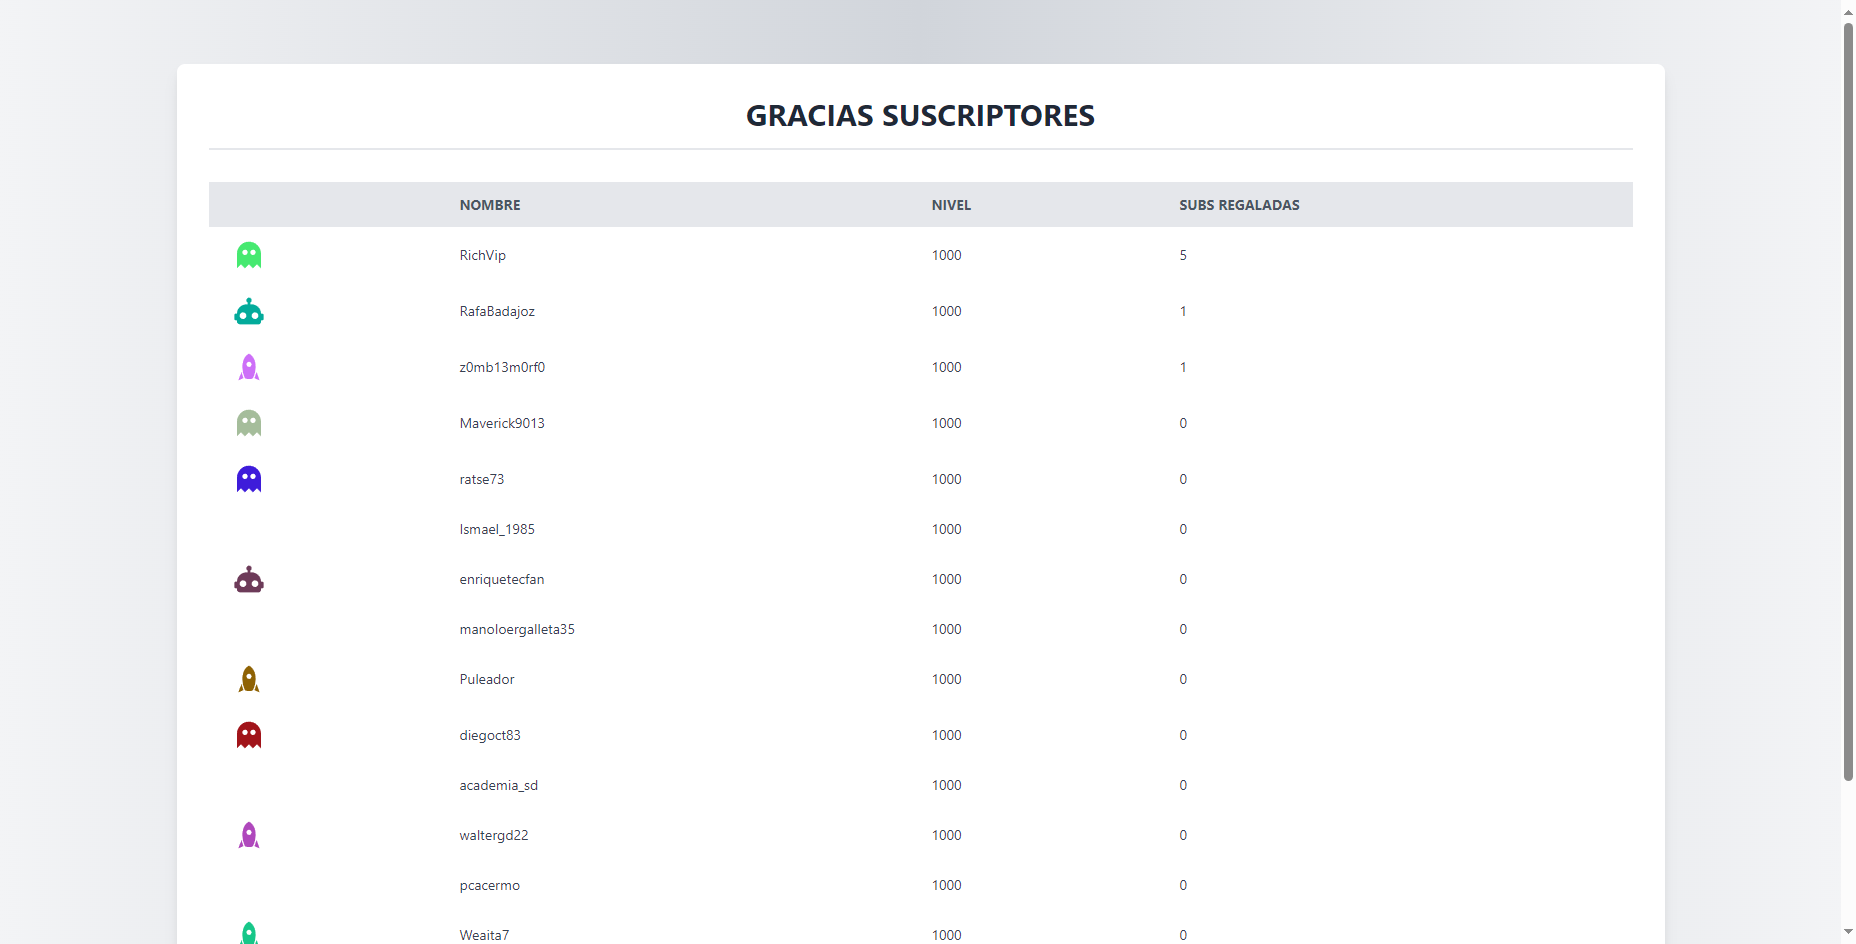
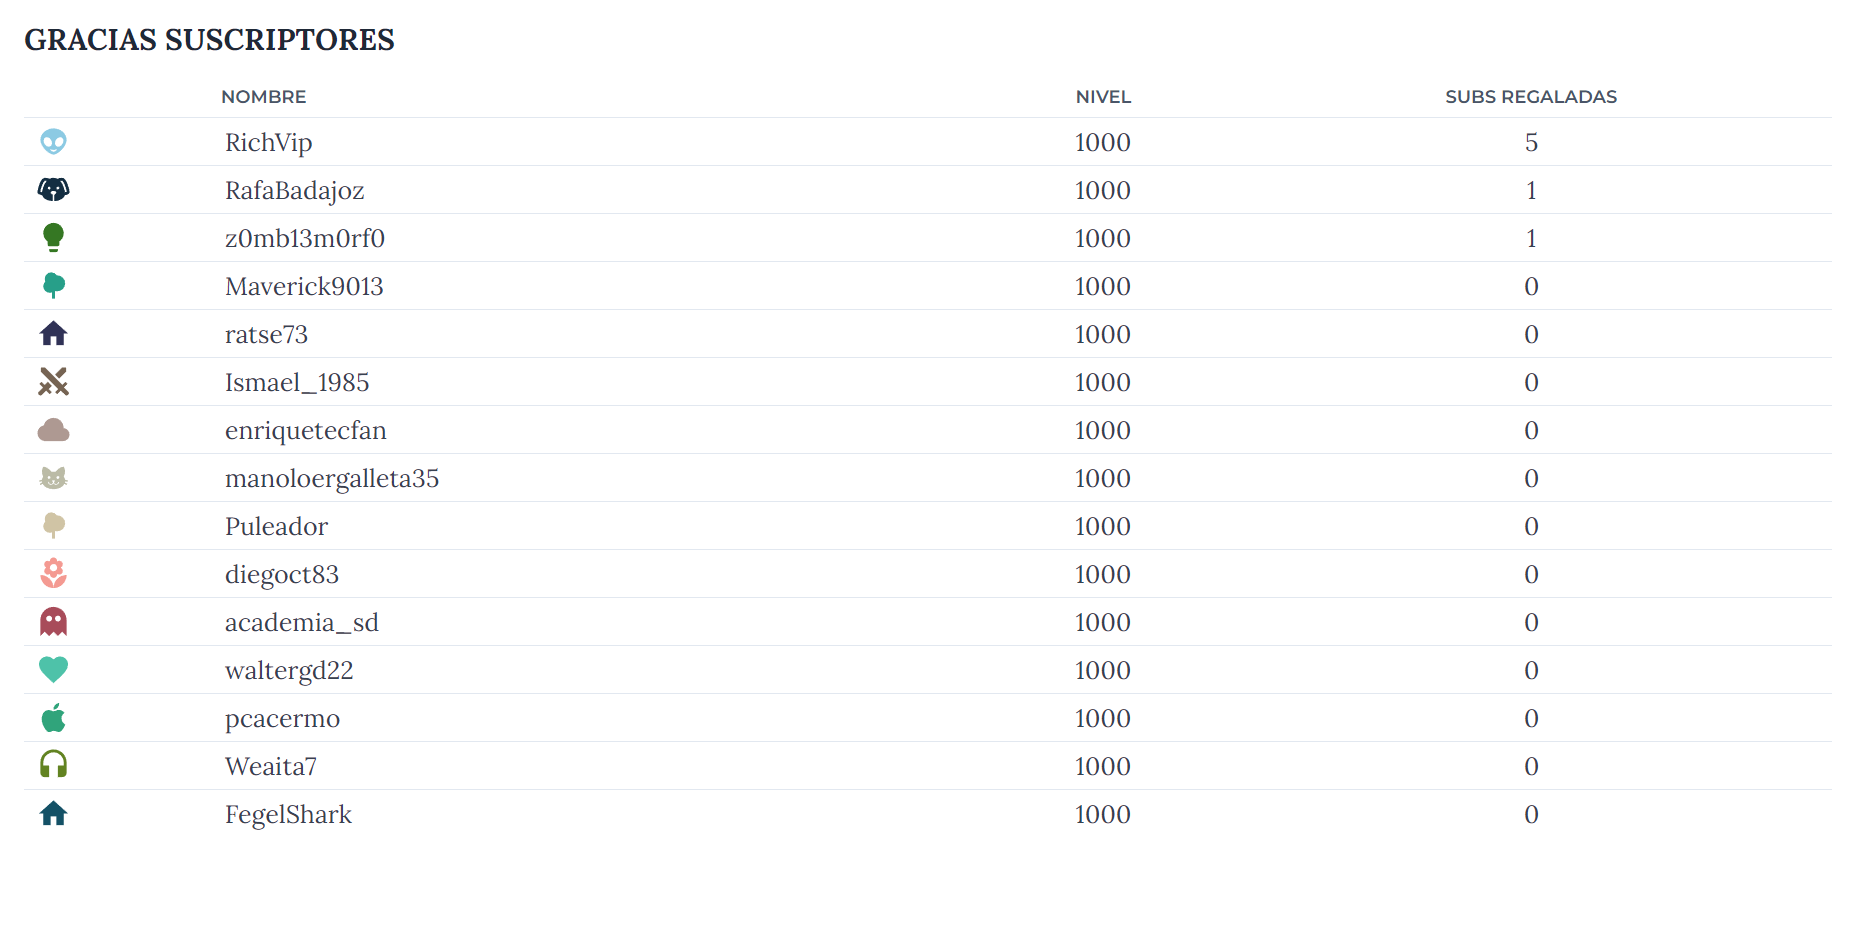
todo

diff --git a/index_con_placeholder.html b/index_con_placeholder.html
@@ -6,39 +6,63 @@
     <title>Lista de Suscriptores</title>
     <!-- Incluir Tailwind CSS desde el CDN -->
     <link href="https://cdn.jsdelivr.net/npm/tailwindcss@2.2.19/dist/tailwind.min.css" rel="stylesheet">
+    <!-- Incluir Google Fonts -->
+    <link href="https://fonts.googleapis.com/css2?family=Lora:wght@400;700&family=Montserrat:wght@300;600&display=swap" rel="stylesheet">
     <!-- Incluir Iconify -->
     <script src="https://code.iconify.design/2/2.1.2/iconify.min.js"></script>
+    <style>
+        /* Custom styles to make the table look less like a traditional table */
+        th, td {
+            padding: 12px 16px;
+        }
+        th {
+            font-family: 'Montserrat', sans-serif;
+            font-weight: 600;
+            text-transform: uppercase;
+            color: #4a5568;
+            border-bottom: 2px solid #e2e8f0;
+            font-size: 36px;
+        }
+        td {
+            font-family: 'Lora', serif;
+            font-weight: 400;
+            border-bottom: 1px solid #e2e8f0;
+            font-size: 50px;
+        }
+        tr:last-child td {
+            border-bottom: none; /* Remove border for the last row */
+        }
+    </style>
 </head>
-<body class="bg-gradient-to-r from-gray-100 via-gray-300 to-gray-100 font-sans leading-normal tracking-normal">
-    <div class="container mx-auto mt-10 p-6">
-        <div class="bg-white p-8 rounded-lg shadow-lg">
-            <h1 class="text-3xl font-bold text-center text-gray-800 mb-8 border-b-2 pb-4">GRACIAS SUSCRIPTORES</h1>
-            <table class="min-w-full bg-white">
-                <thead class="bg-gray-200 text-gray-600 uppercase text-sm leading-normal">
+<body class="bg-white font-sans leading-normal tracking-normal">
+    <div class="w-full p-4">
+        <div class="bg-white p-8">
+            <h1 class="text-6xl font-bold text-left text-gray-800 mb-8 pb-4" style="font-family: 'Lora', serif;">GRACIAS SUSCRIPTORES</h1>
+            <table class="w-full bg-white">
+                <thead>
                     <tr>
-                        <th></th>
-                        <th class="py-3 px-6 text-left">Nombre</th>
-                        <th class="py-3 px-6 text-left">Nivel</th>
-                        <th class="py-3 px-6 text-left">Subs Regaladas</th>
+                        <th class="text-center"></th>
+                        <th class="text-left">Nombre</th>
+                        <th class="text-center">Nivel</th>
+                        <th class="text-center">Subs Regaladas</th>
                     </tr>
                 </thead>
-                <tbody id="nombres-lista" class="text-gray-700 text-sm">
-                    <tr><td class='py-3 px-6 text-left'><span class="iconify" data-icon="mdi:ghost" style="color: #46e970; font-size: 32px;"></span></td><td class='py-3 px-6 text-left'>RichVip</td><td class='py-3 px-6 text-left'>1000</td><td class='py-3 px-6 text-left'>5</td></tr>
-<tr><td class='py-3 px-6 text-left'><span class="iconify" data-icon="mdi:robot" style="color: #03ab9b; font-size: 32px;"></span></td><td class='py-3 px-6 text-left'>RafaBadajoz</td><td class='py-3 px-6 text-left'>1000</td><td class='py-3 px-6 text-left'>1</td></tr>
-<tr><td class='py-3 px-6 text-left'><span class="iconify" data-icon="mdi:rocket" style="color: #cd6ff8; font-size: 32px;"></span></td><td class='py-3 px-6 text-left'>z0mb13m0rf0</td><td class='py-3 px-6 text-left'>1000</td><td class='py-3 px-6 text-left'>1</td></tr>
-<tr><td class='py-3 px-6 text-left'><span class="iconify" data-icon="mdi:ghost" style="color: #a5bd9b; font-size: 32px;"></span></td><td class='py-3 px-6 text-left'>Maverick9013</td><td class='py-3 px-6 text-left'>1000</td><td class='py-3 px-6 text-left'>0</td></tr>
-<tr><td class='py-3 px-6 text-left'><span class="iconify" data-icon="mdi:ghost" style="color: #3e1cda; font-size: 32px;"></span></td><td class='py-3 px-6 text-left'>ratse73</td><td class='py-3 px-6 text-left'>1000</td><td class='py-3 px-6 text-left'>0</td></tr>
-<tr><td class='py-3 px-6 text-left'><span class="iconify" data-icon="mdi:space-invader" style="color: #c1187c; font-size: 32px;"></span></td><td class='py-3 px-6 text-left'>Ismael_1985</td><td class='py-3 px-6 text-left'>1000</td><td class='py-3 px-6 text-left'>0</td></tr>
-<tr><td class='py-3 px-6 text-left'><span class="iconify" data-icon="mdi:robot" style="color: #6d3b59; font-size: 32px;"></span></td><td class='py-3 px-6 text-left'>enriquetecfan</td><td class='py-3 px-6 text-left'>1000</td><td class='py-3 px-6 text-left'>0</td></tr>
-<tr><td class='py-3 px-6 text-left'><span class="iconify" data-icon="mdi:space-invader" style="color: #28db12; font-size: 32px;"></span></td><td class='py-3 px-6 text-left'>manoloergalleta35</td><td class='py-3 px-6 text-left'>1000</td><td class='py-3 px-6 text-left'>0</td></tr>
-<tr><td class='py-3 px-6 text-left'><span class="iconify" data-icon="mdi:rocket" style="color: #8f6204; font-size: 32px;"></span></td><td class='py-3 px-6 text-left'>Puleador</td><td class='py-3 px-6 text-left'>1000</td><td class='py-3 px-6 text-left'>0</td></tr>
-<tr><td class='py-3 px-6 text-left'><span class="iconify" data-icon="mdi:ghost" style="color: #a1141a; font-size: 32px;"></span></td><td class='py-3 px-6 text-left'>diegoct83</td><td class='py-3 px-6 text-left'>1000</td><td class='py-3 px-6 text-left'>0</td></tr>
-<tr><td class='py-3 px-6 text-left'><span class="iconify" data-icon="mdi:space-invader" style="color: #18d2a9; font-size: 32px;"></span></td><td class='py-3 px-6 text-left'>academia_sd</td><td class='py-3 px-6 text-left'>1000</td><td class='py-3 px-6 text-left'>0</td></tr>
-<tr><td class='py-3 px-6 text-left'><span class="iconify" data-icon="mdi:rocket" style="color: #af48bc; font-size: 32px;"></span></td><td class='py-3 px-6 text-left'>waltergd22</td><td class='py-3 px-6 text-left'>1000</td><td class='py-3 px-6 text-left'>0</td></tr>
-<tr><td class='py-3 px-6 text-left'><span class="iconify" data-icon="mdi:space-invader" style="color: #acdb0f; font-size: 32px;"></span></td><td class='py-3 px-6 text-left'>pcacermo</td><td class='py-3 px-6 text-left'>1000</td><td class='py-3 px-6 text-left'>0</td></tr>
-<tr><td class='py-3 px-6 text-left'><span class="iconify" data-icon="mdi:rocket" style="color: #17c789; font-size: 32px;"></span></td><td class='py-3 px-6 text-left'>Weaita7</td><td class='py-3 px-6 text-left'>1000</td><td class='py-3 px-6 text-left'>0</td></tr>
-<tr><td class='py-3 px-6 text-left'><span class="iconify" data-icon="mdi:rocket" style="color: #085c87; font-size: 32px;"></span></td><td class='py-3 px-6 text-left'>FegelShark</td><td class='py-3 px-6 text-left'>1000</td><td class='py-3 px-6 text-left'>0</td></tr>
-<tr><td class='py-3 px-6 text-left'><span class="iconify" data-icon="mdi:space-invader" style="color: #fba2f2; font-size: 32px;"></span></td><td class='py-3 px-6 text-left'>patriciofernandezia</td><td class='py-3 px-6 text-left'>3000</td><td class='py-3 px-6 text-left'>0</td></tr>
+                <tbody id="nombres-lista" class="text-gray-700 text-lg">
+                    <tr><td class='py-3 px-6 text-center'><span class="iconify" data-icon="mdi:alien" style="color: #8ccae3; font-size: 70px;"></span></td><td class='py-3 px-6 text-left'>RichVip</td><td class='py-3 px-6 text-center'>1000</td><td class='py-3 px-6 text-center'>5</td></tr>
+<tr><td class='py-3 px-6 text-center'><span class="iconify" data-icon="mdi:dog" style="color: #142e42; font-size: 70px;"></span></td><td class='py-3 px-6 text-left'>RafaBadajoz</td><td class='py-3 px-6 text-center'>1000</td><td class='py-3 px-6 text-center'>1</td></tr>
+<tr><td class='py-3 px-6 text-center'><span class="iconify" data-icon="mdi:lightbulb" style="color: #357723; font-size: 70px;"></span></td><td class='py-3 px-6 text-left'>z0mb13m0rf0</td><td class='py-3 px-6 text-center'>1000</td><td class='py-3 px-6 text-center'>1</td></tr>
+<tr><td class='py-3 px-6 text-center'><span class="iconify" data-icon="mdi:tree" style="color: #279f89; font-size: 70px;"></span></td><td class='py-3 px-6 text-left'>Maverick9013</td><td class='py-3 px-6 text-center'>1000</td><td class='py-3 px-6 text-center'>0</td></tr>
+<tr><td class='py-3 px-6 text-center'><span class="iconify" data-icon="mdi:home" style="color: #303256; font-size: 70px;"></span></td><td class='py-3 px-6 text-left'>ratse73</td><td class='py-3 px-6 text-center'>1000</td><td class='py-3 px-6 text-center'>0</td></tr>
+<tr><td class='py-3 px-6 text-center'><span class="iconify" data-icon="mdi:sword-cross" style="color: #766453; font-size: 70px;"></span></td><td class='py-3 px-6 text-left'>Ismael_1985</td><td class='py-3 px-6 text-center'>1000</td><td class='py-3 px-6 text-center'>0</td></tr>
+<tr><td class='py-3 px-6 text-center'><span class="iconify" data-icon="mdi:cloud" style="color: #ae9992; font-size: 70px;"></span></td><td class='py-3 px-6 text-left'>enriquetecfan</td><td class='py-3 px-6 text-center'>1000</td><td class='py-3 px-6 text-center'>0</td></tr>
+<tr><td class='py-3 px-6 text-center'><span class="iconify" data-icon="mdi:cat" style="color: #bbbba6; font-size: 70px;"></span></td><td class='py-3 px-6 text-left'>manoloergalleta35</td><td class='py-3 px-6 text-center'>1000</td><td class='py-3 px-6 text-center'>0</td></tr>
+<tr><td class='py-3 px-6 text-center'><span class="iconify" data-icon="mdi:tree" style="color: #d0c4a5; font-size: 70px;"></span></td><td class='py-3 px-6 text-left'>Puleador</td><td class='py-3 px-6 text-center'>1000</td><td class='py-3 px-6 text-center'>0</td></tr>
+<tr><td class='py-3 px-6 text-center'><span class="iconify" data-icon="mdi:flower" style="color: #f49a92; font-size: 70px;"></span></td><td class='py-3 px-6 text-left'>diegoct83</td><td class='py-3 px-6 text-center'>1000</td><td class='py-3 px-6 text-center'>0</td></tr>
+<tr><td class='py-3 px-6 text-center'><span class="iconify" data-icon="mdi:ghost" style="color: #a84c5a; font-size: 70px;"></span></td><td class='py-3 px-6 text-left'>academia_sd</td><td class='py-3 px-6 text-center'>1000</td><td class='py-3 px-6 text-center'>0</td></tr>
+<tr><td class='py-3 px-6 text-center'><span class="iconify" data-icon="mdi:heart" style="color: #4ec2a9; font-size: 70px;"></span></td><td class='py-3 px-6 text-left'>waltergd22</td><td class='py-3 px-6 text-center'>1000</td><td class='py-3 px-6 text-center'>0</td></tr>
+<tr><td class='py-3 px-6 text-center'><span class="iconify" data-icon="mdi:apple" style="color: #30a47b; font-size: 70px;"></span></td><td class='py-3 px-6 text-left'>pcacermo</td><td class='py-3 px-6 text-center'>1000</td><td class='py-3 px-6 text-center'>0</td></tr>
+<tr><td class='py-3 px-6 text-center'><span class="iconify" data-icon="mdi:headphones" style="color: #628321; font-size: 70px;"></span></td><td class='py-3 px-6 text-left'>Weaita7</td><td class='py-3 px-6 text-center'>1000</td><td class='py-3 px-6 text-center'>0</td></tr>
+<tr><td class='py-3 px-6 text-center'><span class="iconify" data-icon="mdi:home" style="color: #145166; font-size: 70px;"></span></td><td class='py-3 px-6 text-left'>FegelShark</td><td class='py-3 px-6 text-center'>1000</td><td class='py-3 px-6 text-center'>0</td></tr>
                 </tbody>
             </table>
         </div>

diff --git a/template.html b/template.html
@@ -6,23 +6,48 @@
     <title>Lista de Suscriptores</title>
     <!-- Incluir Tailwind CSS desde el CDN -->
     <link href="https://cdn.jsdelivr.net/npm/tailwindcss@2.2.19/dist/tailwind.min.css" rel="stylesheet">
+    <!-- Incluir Google Fonts -->
+    <link href="https://fonts.googleapis.com/css2?family=Lora:wght@400;700&family=Montserrat:wght@300;600&display=swap" rel="stylesheet">
     <!-- Incluir Iconify -->
     <script src="https://code.iconify.design/2/2.1.2/iconify.min.js"></script>
+    <style>
+        /* Custom styles to make the table look less like a traditional table */
+        th, td {
+            padding: 12px 16px;
+        }
+        th {
+            font-family: 'Montserrat', sans-serif;
+            font-weight: 600;
+            text-transform: uppercase;
+            color: #4a5568;
+            border-bottom: 2px solid #e2e8f0;
+            font-size: 36px;
+        }
+        td {
+            font-family: 'Lora', serif;
+            font-weight: 400;
+            border-bottom: 1px solid #e2e8f0;
+            font-size: 50px;
+        }
+        tr:last-child td {
+            border-bottom: none; /* Remove border for the last row */
+        }
+    </style>
 </head>
-<body class="bg-gradient-to-r from-gray-100 via-gray-300 to-gray-100 font-sans leading-normal tracking-normal">
-    <div class="container mx-auto mt-10 p-6">
-        <div class="bg-white p-8 rounded-lg shadow-lg">
-            <h1 class="text-3xl font-bold text-center text-gray-800 mb-8 border-b-2 pb-4">GRACIAS SUSCRIPTORES</h1>
-            <table class="min-w-full bg-white">
-                <thead class="bg-gray-200 text-gray-600 uppercase text-sm leading-normal">
+<body class="bg-white font-sans leading-normal tracking-normal">
+    <div class="w-full p-4">
+        <div class="bg-white p-8">
+            <h1 class="text-6xl font-bold text-left text-gray-800 mb-8 pb-4" style="font-family: 'Lora', serif;">GRACIAS SUSCRIPTORES</h1>
+            <table class="w-full bg-white">
+                <thead>
                     <tr>
-                        <th></th>
-                        <th class="py-3 px-6 text-left">Nombre</th>
-                        <th class="py-3 px-6 text-left">Nivel</th>
-                        <th class="py-3 px-6 text-left">Subs Regaladas</th>
+                        <th class="text-center"></th>
+                        <th class="text-left">Nombre</th>
+                        <th class="text-center">Nivel</th>
+                        <th class="text-center">Subs Regaladas</th>
                     </tr>
                 </thead>
-                <tbody id="nombres-lista" class="text-gray-700 text-sm">
+                <tbody id="nombres-lista" class="text-gray-700 text-lg">
                     <!-- PLACEHOLDER -->
                 </tbody>
             </table>

diff --git a/main.py b/main.py
@@ -8,18 +8,33 @@ from selenium import webdriver
 from dotenv import load_dotenv
 import time
 
-# Cargar las variables de entorno desde el archivo .env
+# Cargar las variables de entorno desde el archivo .env manualmente
 def load_env():
-    load_dotenv()
+    env_vars = {}
+    env_path = os.path.join(ruta, '.env')  # Ruta al archivo .env
+
+    if os.path.exists(env_path):
+        with open(env_path, 'r') as file:
+            for line in file:
+                line = line.strip()
+                if line and not line.startswith('#'):
+                    key, value = line.split('=', 1)
+                    env_vars[key] = value
+    else:
+        print(f"El archivo .env no se encontró en la ruta: {env_path}")
+    
+    return env_vars
 
 # Configuración de la aplicación
 def get_config():
+    env_vars = load_env()
+    print(env_vars)
     return {
-        'client_id': os.getenv('CLIENT_ID'),
-        'client_secret': os.getenv('CLIENT_SECRET'),
-        'redirect_uri': os.getenv('REDIRECT_URI'),
-        'authorization_code': os.getenv('AUTHORIZATION_CODE'),
-        'token_file': 'tokens.json'
+        'client_id': env_vars.get('CLIENT_ID'),
+        'client_secret': env_vars.get('CLIENT_SECRET'),
+        'redirect_uri': env_vars.get('REDIRECT_URI'),
+        'authorization_code': env_vars.get('AUTHORIZATION_CODE'),
+        'token_file': os.path.join(ruta, 'tokens.json')
     }
 
 # Función para guardar tokens en un archivo
@@ -33,8 +48,8 @@ def save_tokens(token_file, access_token, refresh_token):
 
 # Función para cargar tokens desde un archivo
 def load_tokens(token_file):
-    if os.path.exists(token_file):
-        with open(token_file, 'r') as file:
+    if os.path.exists(ruta + "//" + token_file):
+        with open(ruta + "//" + token_file, 'r') as file:
             return json.load(file)
     return None
 
@@ -93,30 +108,60 @@ def assign_medals(subscribers):
             else:
                 subscribers[i]['medal'] = '<span class="iconify" data-icon="emojione:3rd-place-medal" style="color: #cd7f32;"></span>'  # Medalla de bronce
 
-# Función para generar filas HTML
+# Función para cargar la lista de iconos desde un archivo JSON
+def load_icons_from_json(json_filename):
+    try:
+        with open(ruta + "//" + json_filename, 'r', encoding='utf-8') as file:
+            data = json.load(file)
+        return data.get('icons', [])
+    except Exception as e:
+        print(f"Error loading icons from {json_filename}: {e}")
+        return ['mdi:alien']  # Fallback icon if there's an issue
+
 # Función para generar filas HTML
 def generate_table_rows(subscribers):
-    icon_list = [
-        'mdi:alien',
-        'mdi:ghost',
-        'mdi:robot',
-        'mdi:rocket',
-        'mdi:space-invader'
-    ]
+    icon_list = load_icons_from_json('iconos.json')  # Cargar los iconos desde el archivo JSON
 
     rows_html = []
     for subscriber in subscribers:
-        icon = random.choice(icon_list)
-        color = f"#{random.randint(0, 0xFFFFFF):06x}"  # Generar un color aleatorio en formato hexadecimal
-        icon_html = f'<span class="iconify" data-icon="{icon}" style="color: {color}; font-size: 32px;"></span>'
-        rows_html.append(
-            f"<tr>"
-            f"<td class='py-3 px-6 text-left'>{icon_html}</td>"
-            f"<td class='py-3 px-6 text-left'>{subscriber['User Name']}</td>"  # Asegúrate de que 'User Name' sea la clave correcta
-            f"<td class='py-3 px-6 text-left'>{subscriber['Tier']}</td>"        # Asegúrate de que 'Tier' sea la clave correcta
-            f"<td class='py-3 px-6 text-left'>{subscriber['gift_count']}</td>"  # 'gift_count' es calculado por tu función
-            f"</tr>"
-        )
+        try:
+            # Asegurar que siempre haya un icono seleccionado
+            if icon_list:
+                icon = random.choice(icon_list)
+            else:
+                icon = 'mdi:alien'  # Fallback icon
+
+            color = f"#{random.randint(0, 0xFFFFFF):06x}"  # Generar un color aleatorio en formato hexadecimal
+            icon_html = f'<span class="iconify" data-icon="{icon}" style="color: {color}; font-size: 70px;"></span>'
+            
+            # Asegurarse de que los datos del suscriptor existen
+            user_name = subscriber.get('User Name', 'Unknown')
+            if user_name == "patriciofernandezia":
+                continue  # Omitir este suscriptor
+            
+            tier = subscriber.get('Tier', 'N/A')
+            gift_count = subscriber.get('gift_count', '0')
+
+            # Añadir la fila a la lista de filas HTML
+            rows_html.append(
+                f"<tr>"
+                f"<td class='py-3 px-6 text-center'>{icon_html}</td>"
+                f"<td class='py-3 px-6 text-left'>{user_name}</td>"  
+                f"<td class='py-3 px-6 text-center'>{tier}</td>"        
+                f"<td class='py-3 px-6 text-center'>{gift_count}</td>"
+                f"</tr>"
+            )
+        except Exception as e:
+            print(f"Error generating row for subscriber {subscriber}: {e}")
+            rows_html.append(
+                f"<tr>"
+                f"<td class='py-3 px-6 text-left'><span class='iconify' data-icon='mdi:alien' style='color: #000; font-size: 48px;'></span></td>"
+                f"<td class='py-3 px-6 text-left'>{subscriber.get('User Name', 'Unknown')}</td>"
+                f"<td class='py-3 px-6 text-left'>{subscriber.get('Tier', 'N/A')}</td>"
+                f"<td class='py-3 px-6 text-center'>{subscriber.get('gift_count', '0')}</td>"
+                f"</tr>"
+            )
+            continue
 
     return "\n".join(rows_html)
 
@@ -126,21 +171,22 @@ def take_screenshot(html_file_path, output_image_path):
     edge_options.headless = True  # Ejecuta el navegador en modo headless (sin interfaz gráfica)
     
     # Configurar para que se abra en fullscreen
-    #edge_options.add_argument("--start-fullscreen")  # Fullscreen mode
     edge_options.add_argument("--window-size=1920,1080")  # Establecer tamaño de ventana (pantalla completa estándar)
 
     # Iniciar el navegador Edge
     driver = webdriver.Edge(options=edge_options)
 
-    ruta=os.getcwd()
     # Abrir el archivo HTML generado
     driver.get(f'file:///{ruta}//{html_file_path}')
 
     # Esperar un momento para asegurarse de que la página se haya cargado completamente
     time.sleep(2)  # Aumentar el tiempo de espera si es necesario
 
+    # Configurar el nivel de zoom al 50% utilizando JavaScript
+    driver.execute_script("document.body.style.zoom='50%'")
+
     # Tomar una captura de pantalla
-    driver.save_screenshot(output_image_path)
+    driver.save_screenshot(ruta + "//" + output_image_path)
 
     # Cerrar el navegador
     driver.quit()
@@ -170,7 +216,7 @@ def get_subscribers(headers, user_id):
 
 # Función para guardar los suscriptores en un archivo CSV
 def save_subscribers_to_csv(subscribers, csv_filename):
-    with open(csv_filename, mode='w', newline='', encoding='utf-8') as file:
+    with open(ruta + "//" + csv_filename, mode='w', newline='', encoding='utf-8') as file:
         writer = csv.writer(file)
         # Escribir los encabezados
         writer.writerow(['User ID', 'User Name', 'User Login', 'Plan Name', 'Tier', 'Is Gift', 'Gifter Name'])
@@ -192,7 +238,7 @@ def process_subscribers_from_csv(csv_filename):
     subscribers = []
 
     # Leer los datos desde el archivo CSV
-    with open(csv_filename, mode='r', newline='', encoding='utf-8') as file:
+    with open(ruta + "//" + csv_filename, mode='r', newline='', encoding='utf-8') as file:
         reader = csv.DictReader(file)
         for row in reader:
             # Convertir los campos necesarios de texto a los tipos correctos si es necesario
@@ -206,18 +252,17 @@ def process_subscribers_from_csv(csv_filename):
 
     return sorted(subscribers, key=lambda x: int(x['gift_count']), reverse=True)
 
-
 # Función para generar el HTML con la lista de suscriptores
 def generate_html(template_html_filename, output_html_filename, rows_html):
-    with open(template_html_filename, 'r', encoding='utf-8') as file:
+    with open(ruta + "//" + template_html_filename, 'r', encoding='utf-8') as file:
         html_template = file.read()
 
     html_content = html_template.replace("<!-- PLACEHOLDER -->", rows_html)
 
-    with open(output_html_filename, 'w', encoding='utf-8') as file:
+    with open(ruta + "//" + output_html_filename, 'w', encoding='utf-8') as file:
         file.write(html_content)
 
-    print(f"Archivo HTML generado: {output_html_filename}")
+    print(f"Archivo HTML generado: {ruta + '//' + output_html_filename}")
 
 def peticion():
     load_env()
@@ -243,13 +288,15 @@ def peticion():
 
     csv_filename = 'suscriptores.csv'
     save_subscribers_to_csv(subscribers, csv_filename)
-    print(f"La lista de suscriptores se ha guardado en '{csv_filename}'.")
+    print(f"La lista de suscriptores se ha guardado en '{ruta + '//' + csv_filename}'.")
     return subscribers
-    
 
 # Función principal para generar el HTML y tomar la captura de pantalla
 def main():
-    #subscribers=peticion()
+    global ruta
+    #Para que el obs lo procese
+    ruta = r"C:\Users\Patricio\Documents\Clases Video\Directos\personalizacion\SubsTwitch"
+    subscribers = peticion()
 
     sorted_subscribers = process_subscribers_from_csv('suscriptores.csv')
     rows_html = generate_table_rows(sorted_subscribers)
